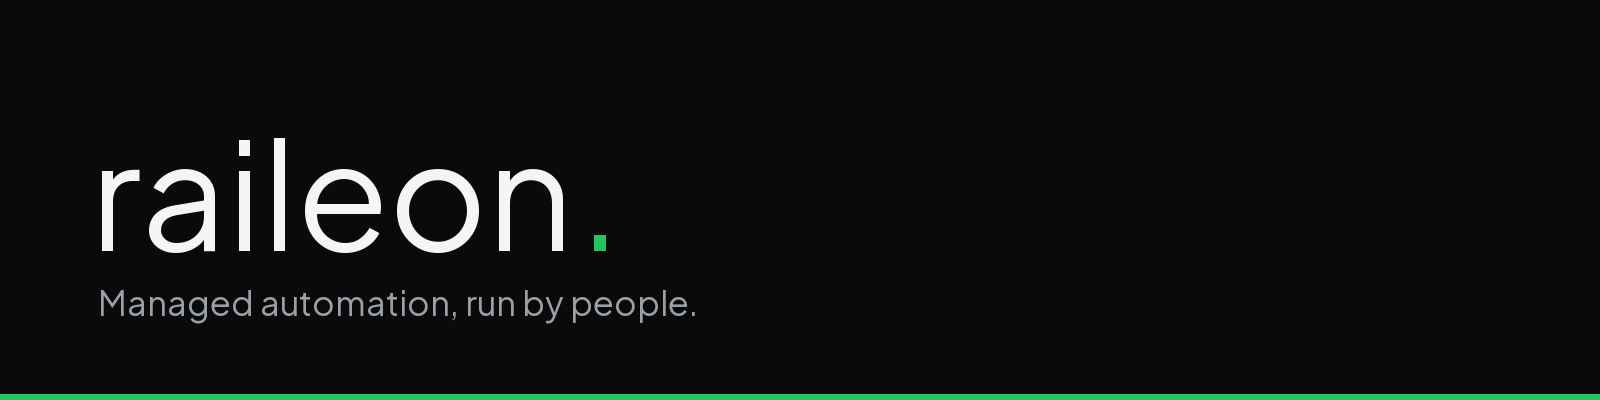
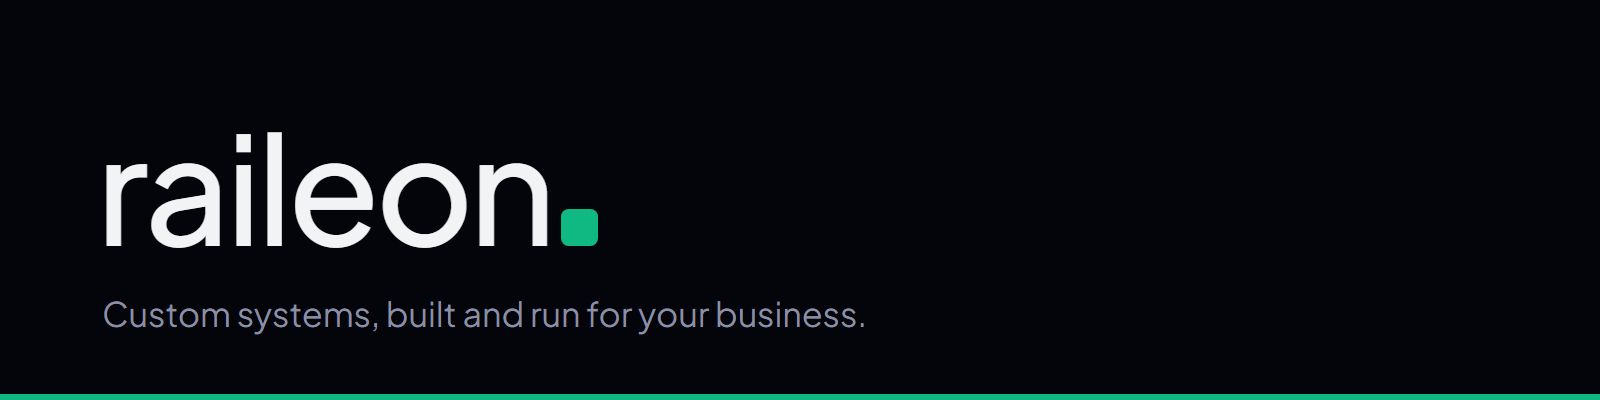
Rebrand profile to match raileon.com
New banner and text: the six services, LLM development, free tools and contact.

Changed region(s): [[0.0625, 0.33, 0.4062, 0.63], [0.0, 0.96, 1.0, 1.0], [0.0625, 0.72, 0.5312, 0.84]]

diff --git a/README.md b/README.md
@@ -1,34 +1,33 @@
 <p align="center">
-  <img src="banner.png" alt="raileon. Managed automation, run by people." width="100%">
+  <a href="https://raileon.com"><img src="banner.png" alt="raileon. Custom systems, built and run for your business." width="100%"></a>
 </p>
 
-# SkyRaileon
+<p align="center">
+  <a href="https://raileon.com"><b>raileon.com</b></a> &nbsp;·&nbsp;
+  <a href="https://github.com/SkyRaileon">@SkyRaileon</a> &nbsp;·&nbsp;
+  <a href="https://raileon.com/tools/business-checkup">Free Business Checkup</a> &nbsp;·&nbsp;
+  <a href="https://raileon.com/book">Book a call</a>
+</p>
 
-**[Raileon](https://raileon.com)** · Managed automation for businesses, run by people · Miami, FL
+## Raileon
 
-We build and run the automation behind companies' leads, reviews, reporting and back office, inside the tools they already use. Built for the owner who gets the 7 AM phone call, not for the demo.
+Software, automation, AI and training, under one roof. Raileon is a full-stack development company in Miami, Florida. We build the systems behind a business, inside the tools it already uses, and keep them running.
 
-## What we're building
+- **[Custom Software](https://raileon.com/custom-software-development):** private dashboards, customer portals, internal tools and links between your systems.
+- **[Automation](https://raileon.com/business-process-automation):** lead follow-up, client intake, reporting and CRM updates, run and kept working by us.
+- **[Custom AI Modules](https://raileon.com/ai-systems-development):** AI that knows your business and asks before anything important.
+- **[LLM Development](https://raileon.com/llm-development):** an open model trained on your company's own data, running on your own systems.
+- **[Team Training](https://raileon.com/services):** hands-on sessions so your people get the most from what we built.
+- **[Raileon Social](https://raileon.com/social-media-management) and [Raileon Ads](https://raileon.com/ppc-management):** weekly posts, and ads tied to the calls and leads they bring in.
 
-- **[Raileon](https://raileon.com)** — managed automation: we design, build and operate it; the owner approves what matters. Family offices and multi-entity operators first; local businesses through the Site Audit.
-- **Mission Control** — the private command center our clients see: every system at work, every approval in one queue, one audit log. Private repo.
-- **Raileon Site Audit** — a business-visibility audit: Google reviews, Business Profile, search, website speed, security and accessibility, scored against three local competitors, with the five fixes that matter most.
+## Free tool
+
+**[Business Checkup](https://raileon.com/tools/business-checkup):** see what's costing you customers on Google.
 
 ## Open source
 
-- **[desktop-broom](https://github.com/Kastan97/desktop-broom)** — 🧹 AI-powered desktop organizer for Windows.
-- **[openclaw](https://github.com/Kastan97/openclaw)** — fork of the open-source personal AI assistant that runs our assistant deployments.
-
-## Stack
-
-`Next.js` `Node` `TypeScript` `Python` `OpenClaw` `Claude` `DeepSeek` `ComfyUI` `Vercel` `AWS`
-
-## How we work
-
-- Ship in days, measure weekly.
-- Approvals before autonomy: nothing sends, pays or books on its own until the owner says so.
-- Only claims we can keep. No "24/7", no certifications we don't hold, no invented results.
+- **[desktop-broom](https://github.com/Kastan97/desktop-broom):** an AI desktop organizer for Windows.
 
 ## Contact
 
-[raileon.com](https://raileon.com) · admin@raileon.com · Miami, Florida
+[raileon.com](https://raileon.com) · admin@raileon.com · (786) 733-8337 · Miami, Florida
